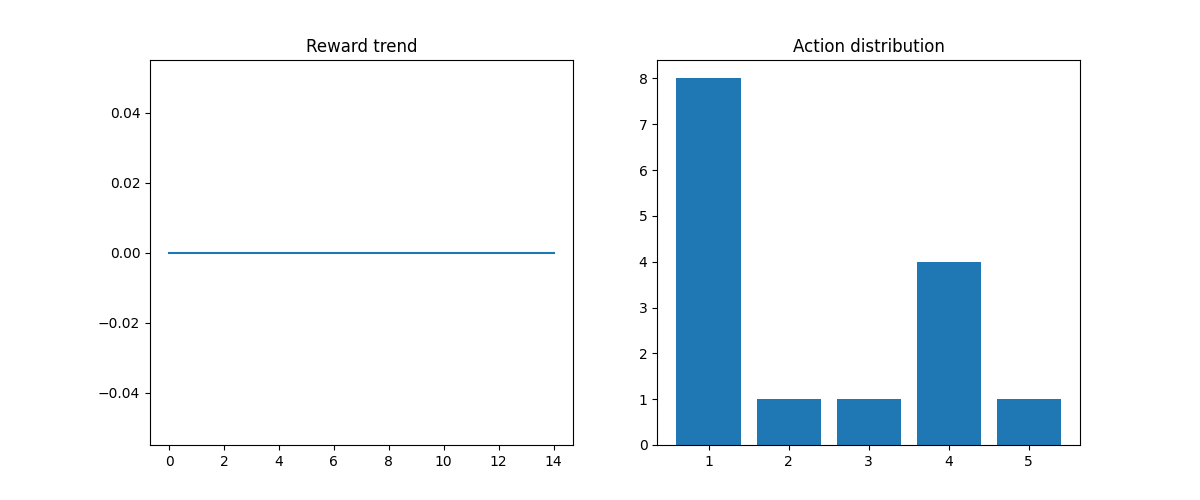
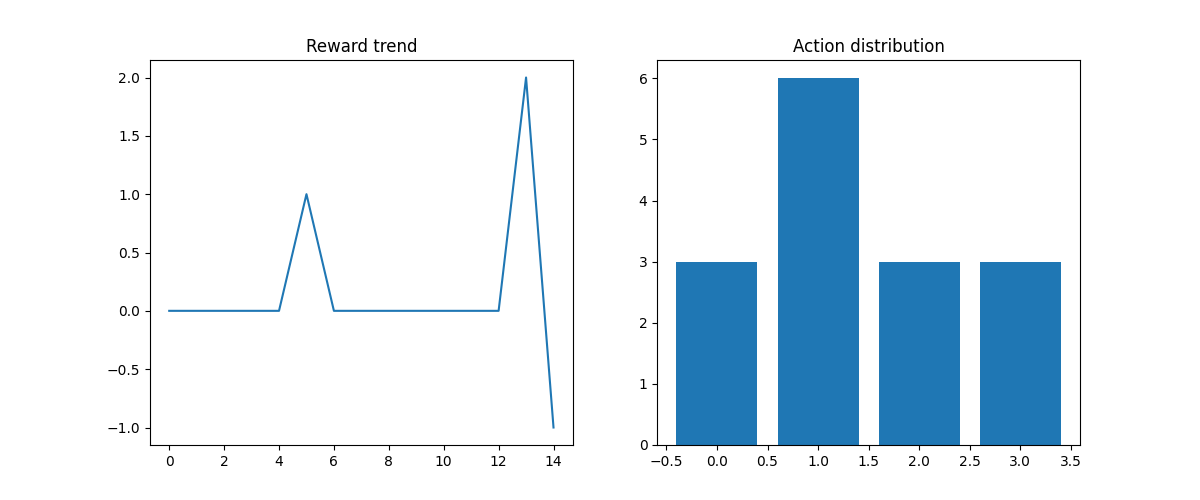
update

diff --git a/project/LLM_agent_visual.py b/project/LLM_agent_visual.py
@@ -35,25 +35,6 @@ def create_directory(base_dir='imgs'):
     os.makedirs(base_dir, exist_ok=True)
     return base_dir
 
-def create_gif(image_list, gif_name):
-    frames = []
-    for image_name in image_list:
-        frames.append(imageio.imread(image_name))
-    # Save them as frames into a gif
-    imageio.mimsave(gif_name, frames, 'GIF', duration=0.1)
-    return
-
-
-def img2gif():
-    image_list = []
-    try:
-        for i in range(186):
-            name = "imgs/game" + str(i) + ".png"
-            image_list.append(name)
-        gif_name = 'created_gif.gif'
-    except:
-        create_gif(image_list, gif_name)
-    create_gif(image_list, gif_name)
 
 class show_state_gif():
     def __init__(self):
@@ -145,17 +126,16 @@ def parse_vgdl_level(vgdl_level):
             avatar_pos = (x, y)
             break
 
-    return np.array([list(row) for row in padded_level]), avatar_pos  # 返回元组
+    return np.array([list(row) for row in padded_level]), avatar_pos 
 
 
-# 增强奖励系统核心模块
-class EnhancedRewardSystem:
-    def __init__(self, action_space_size: int, window_size=15):
+class RewardSystem:
+    def __init__(self):
         self.action_history = []
         self.reward_history = []
         self.action_efficacy = defaultdict(list)
         self.consecutive_zero_threshold = 3
-        self.window_size = window_size
+        # self.window_size = window_size
         self.total_reward = 0.0
 
     def update(self, action: int, reward: float):
@@ -164,11 +144,11 @@ class EnhancedRewardSystem:
         self.action_efficacy[action].append(reward)
         self.total_reward += reward
 
-        if len(self.action_history) > self.window_size:
-            removed_action = self.action_history.pop(0)
-            self.reward_history.pop(0)
-            if self.action_efficacy[removed_action]:
-                self.action_efficacy[removed_action].pop(0)
+        # if len(self.action_history) > self.window_size:
+        #     removed_action = self.action_history.pop(0)
+        #     self.reward_history.pop(0)
+        #     if self.action_efficacy[removed_action]:
+        #         self.action_efficacy[removed_action].pop(0)
 
     # disable the zero streak function
     def generate_guidance(self) -> str:
@@ -181,41 +161,41 @@ class EnhancedRewardSystem:
             (i for i, r in enumerate(reversed(self.reward_history)) if r != 0),
             len(self.reward_history))
 
-    def _zero_reward_analysis(self) -> str:
-        recent_actions = self.action_history[-self.consecutive_zero_threshold:]
-        action_stats = {a: (np.mean(self.action_efficacy[a]), len(self.action_efficacy[a]))
-                        for a in set(recent_actions)}
-        return f"""
-    Zero reward for {self.get_zero_streak()} consecutive times.
-    Recent action sequence: {recent_actions}
-    Performance analysis:
-    {chr(10).join(f'- Action {a}: Average reward {avg:.2f} (Attempt count {count})'
-                  for a, (avg, count) in action_stats.items())}
-    It is recommended to try new action combinations or check rule compliance. 
-    Note that there may be a certain delay in rewards. 
-    Combining multiple actions (changing positions) will increase the probability of obtaining a reward.
+    # def _zero_reward_analysis(self) -> str:
+    #     recent_actions = self.action_history[-self.consecutive_zero_threshold:]
+    #     action_stats = {a: (np.mean(self.action_efficacy[a]), len(self.action_efficacy[a]))
+    #                     for a in set(recent_actions)}
+    #     return f"""
+    # Zero reward for {self.get_zero_streak()} consecutive times.
+    # Recent action sequence: {recent_actions}
+    # Performance analysis:
+    # {chr(10).join(f'- Action {a}: Average reward {avg:.2f} (Attempt count {count})'
+    #               for a, (avg, count) in action_stats.items())}
+    # It is recommended to try new action combinations or check rule compliance. 
+    # Note that there may be a certain delay in rewards. 
+    # Combining multiple actions (changing positions) will increase the probability of obtaining a reward.
 
-    Avoid repetitive location
-    Get the reward
-    The final goal is win the game
-    """
+    # Avoid repetitive location
+    # Get the reward
+    # The final goal is win the game
+    # """
 
-    def _performance_summary(self) -> str:
-        top_actions = sorted([(a, np.mean(r)) for a, r in self.action_efficacy.items() if r],
-                             key=lambda x: x[1], reverse=True)[:3]
-        return f"""
-    Best action:
-    {chr(10).join(f'- action{a}: average reward{reward:.2f}' for a, reward in top_actions)}
-    """
+    # def _performance_summary(self) -> str:
+    #     top_actions = sorted([(a, np.mean(r)) for a, r in self.action_efficacy.items() if r],
+    #                          key=lambda x: x[1], reverse=True)[:3]
+    #     return f"""
+    # Best action:
+    # {chr(10).join(f'- action{a}: average reward{reward:.2f}' for a, reward in top_actions)}
+    # """
 
-    # LLM交互模块
+
 
 
 def build_enhanced_prompt(vgdl_rules: str,
                           state: str,
                           last_state: str,
                           action_map: dict,
-                          reward_system: EnhancedRewardSystem,
+                          reward_system: RewardSystem,
                           reflection_mgr: ReflectionManager,
                           current_image_path: Optional[str] = None,
                           last_image_path: Optional[str] = None,
@@ -292,7 +272,7 @@ def query_llm(llm_client: LLMClient,
               current_state: str,
               last_state: str,
               action_map: dict,
-              reward_system: EnhancedRewardSystem,
+              reward_system: RewardSystem,
               reflection_mgr: ReflectionManager,
               step: int,
               current_image_path: Optional[str] = None,
@@ -324,7 +304,7 @@ def query_llm(llm_client: LLMClient,
         return 0, " "
 
 
-def generate_report(system: EnhancedRewardSystem, step: int) -> str:
+def generate_report(system: RewardSystem, step: int, dir) -> str:
     print(f"\n=== Game analysis ===")
     print(f"Total steps: {step}")
     print(f"Total reward: {system.total_reward}")
@@ -339,16 +319,16 @@ def generate_report(system: EnhancedRewardSystem, step: int) -> str:
     action_dist = Counter(system.action_history)
     plt.bar(action_dist.keys(), action_dist.values())
     plt.title("Action distribution")
-    plt.savefig("game_analysis.png")
+    plt.savefig(dir+"game_analysis.png")
 
 
 if __name__ == "__main__":
     current_path = os.path.dirname(os.path.abspath(__file__))
     full_path = os.path.join(os.path.dirname(current_path), "gym_gvgai", "envs", "games")
     llm_list = ["qwen","openai", "deepseek"]
+
     for game in os.listdir(full_path):
         env_name = "gvgai-"+game[:-3]+"-lvl0-v0"
-
 
         env = gvgai.make(env_name)
         state = env.reset()
@@ -385,9 +365,9 @@ if __name__ == "__main__":
         for llm in llm_list:
 
             llm_client = LLMClient(llm)
-
+            state = env.reset()
             reflection_mgr = ReflectionManager()
-            reward_system = EnhancedRewardSystem(env.action_space.n)
+            reward_system = RewardSystem()
 
             try:
                 total_reward = 0
@@ -399,7 +379,7 @@ if __name__ == "__main__":
                 game_state = vgdl_grid
                 last_state_img = None
                 game_state_img = None
-                dir = create_directory(game_name)
+                dir = create_directory("imgs/"+game_name)
                 while not done:
 
 
@@ -423,10 +403,17 @@ if __name__ == "__main__":
                     img(env)
                     winner = info['winner']
                     step_count += 1
+
+
             finally:
 
                 env.close()
-                img.save(game_name+llm)
+                try:
+                    img.save(dir+"_"+llm)
+                except:
+                    print("cannot save")
                 with open("game_logs.txt", mode="a") as f:
                     f.write(f"game_name: {game_name}, step_count: {step_count}, winner: {winner}, api: {llm}\n")
-                generate_report(reward_system, step_count - 1)
+                generate_report(reward_system, step_count,dir+"_"+llm)
+
+
